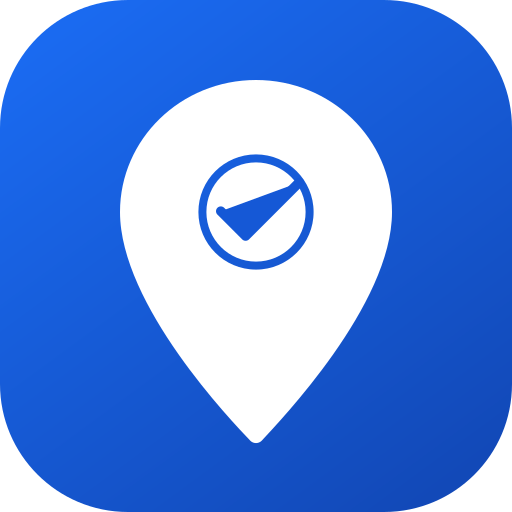
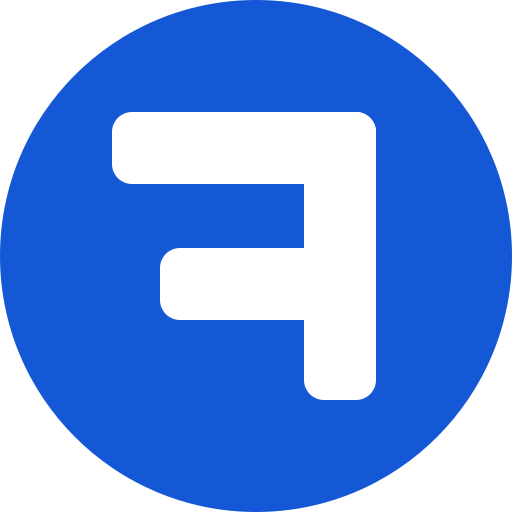
ロゴをグラデーションなしの幾何学マークに刷新
ピン＋チェックのデザインを廃止し、ソリッドカラーのみの抽象ガイド字形へ変更。
ファビコンは円形エンブレム、ヘッダーはプレートなしのマーク＋サイト名。

diff --git a/docs/assets/style.css b/docs/assets/style.css
@@ -6,11 +6,11 @@ header.site{position:sticky;top:0;z-index:30;background:rgba(255,255,255,.96);ba
 .hbar{max-width:820px;margin:0 auto;display:flex;align-items:center;gap:.35rem 1rem;flex-wrap:wrap}
 .brand{font-weight:800;font-size:1.12rem;color:var(--fg);display:inline-flex;align-items:center;gap:.45rem;line-height:1.2}
 .brand:hover{text-decoration:none}
-.brand-mark{width:1.55rem;height:1.55rem;border-radius:.42rem;flex:none;display:block}
+.brand-mark{width:1.45rem;height:1.45rem;flex:none;display:block}
 .gnav{display:flex;gap:.1rem;margin-left:auto;flex-wrap:wrap}
 .gnav a{color:var(--fg);font-weight:600;font-size:.9rem;padding:.34rem .6rem;border-radius:8px}
 .gnav a:hover{background:var(--soft);text-decoration:none}
-@media(max-width:520px){.gnav a{padding:.3rem .44rem;font-size:.82rem}.brand{font-size:1rem}.brand-mark{width:1.4rem;height:1.4rem}header.site{padding:.5rem .8rem}}
+@media(max-width:520px){.gnav a{padding:.3rem .44rem;font-size:.82rem}.brand{font-size:1rem}.brand-mark{width:1.3rem;height:1.3rem}header.site{padding:.5rem .8rem}}
 @media(max-width:360px){.gnav{gap:0}.gnav a{padding:.3rem .34rem;font-size:.78rem}}
 :target{scroll-margin-top:60px}
 main{max-width:820px;margin:0 auto;padding:1.1rem 1.1rem 3rem}

diff --git a/build/build_site.py b/build/build_site.py
@@ -998,11 +998,11 @@ header.site{position:sticky;top:0;z-index:30;background:rgba(255,255,255,.96);ba
 .hbar{max-width:820px;margin:0 auto;display:flex;align-items:center;gap:.35rem 1rem;flex-wrap:wrap}
 .brand{font-weight:800;font-size:1.12rem;color:var(--fg);display:inline-flex;align-items:center;gap:.45rem;line-height:1.2}
 .brand:hover{text-decoration:none}
-.brand-mark{width:1.55rem;height:1.55rem;border-radius:.42rem;flex:none;display:block}
+.brand-mark{width:1.45rem;height:1.45rem;flex:none;display:block}
 .gnav{display:flex;gap:.1rem;margin-left:auto;flex-wrap:wrap}
 .gnav a{color:var(--fg);font-weight:600;font-size:.9rem;padding:.34rem .6rem;border-radius:8px}
 .gnav a:hover{background:var(--soft);text-decoration:none}
-@media(max-width:520px){.gnav a{padding:.3rem .44rem;font-size:.82rem}.brand{font-size:1rem}.brand-mark{width:1.4rem;height:1.4rem}header.site{padding:.5rem .8rem}}
+@media(max-width:520px){.gnav a{padding:.3rem .44rem;font-size:.82rem}.brand{font-size:1rem}.brand-mark{width:1.3rem;height:1.3rem}header.site{padding:.5rem .8rem}}
 @media(max-width:360px){.gnav{gap:0}.gnav a{padding:.3rem .34rem;font-size:.78rem}}
 :target{scroll-margin-top:60px}
 main{max-width:820px;margin:0 auto;padding:1.1rem 1.1rem 3rem}
